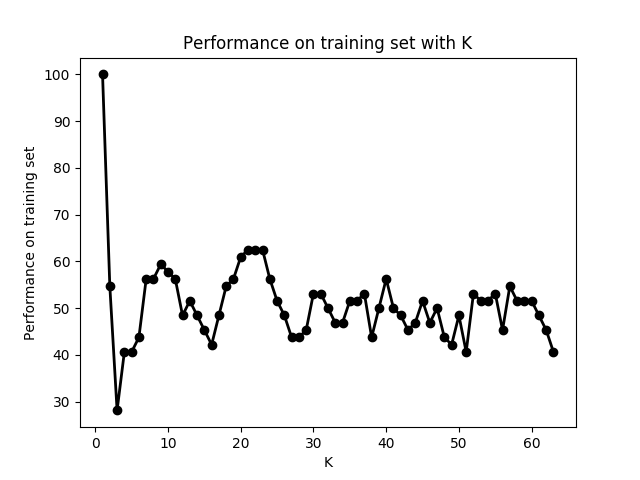
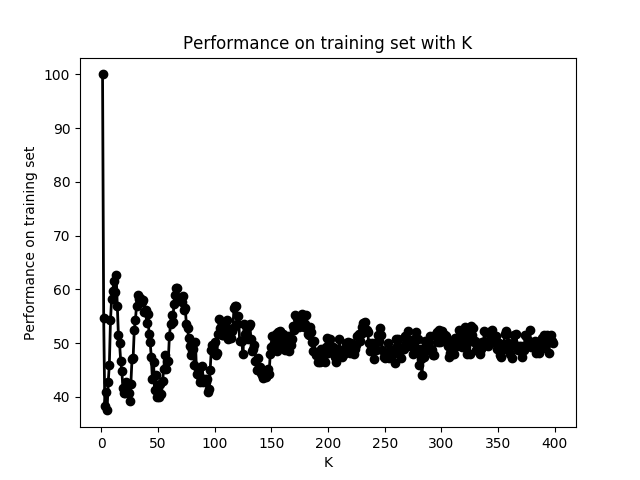
This is bad

diff --git a/generate_data.py b/generate_data.py
@@ -3,7 +3,7 @@ import numpy as np
 
 def generate_data():
     """Generate random data resembling a chess board
-    
+
     Returns
     X: list(list(x, y)) : coordinates of chess board
     y: list(either 0 or 1)
@@ -15,8 +15,8 @@ def generate_data():
 
     np.random.seed(5)
 
-    for i in range(8):
-        for j in range(8):
+    for i in range(20):
+        for j in range(20):
 
             x_coord = i - 0.5 + np.random.random_sample()
             y_coord = j - 0.5 + np.random.random_sample()
